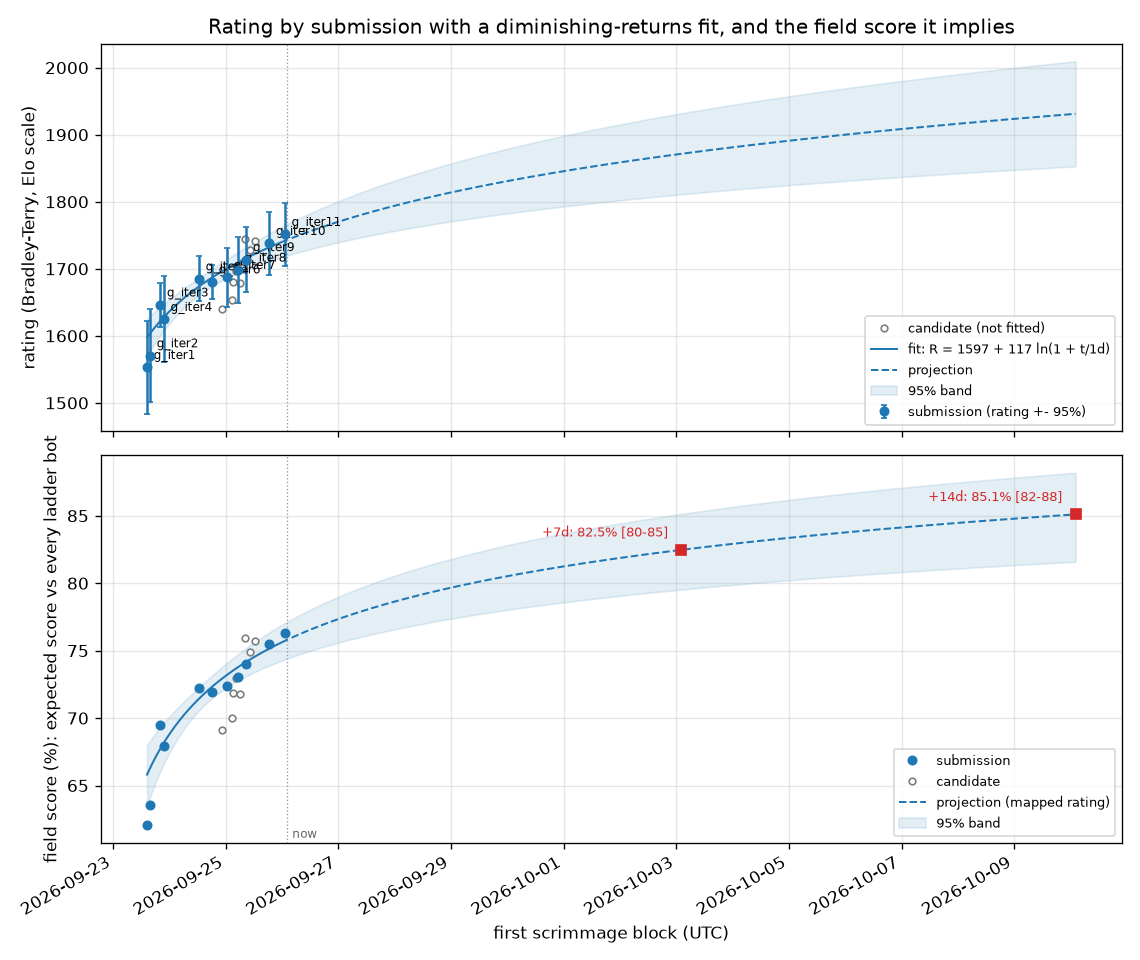
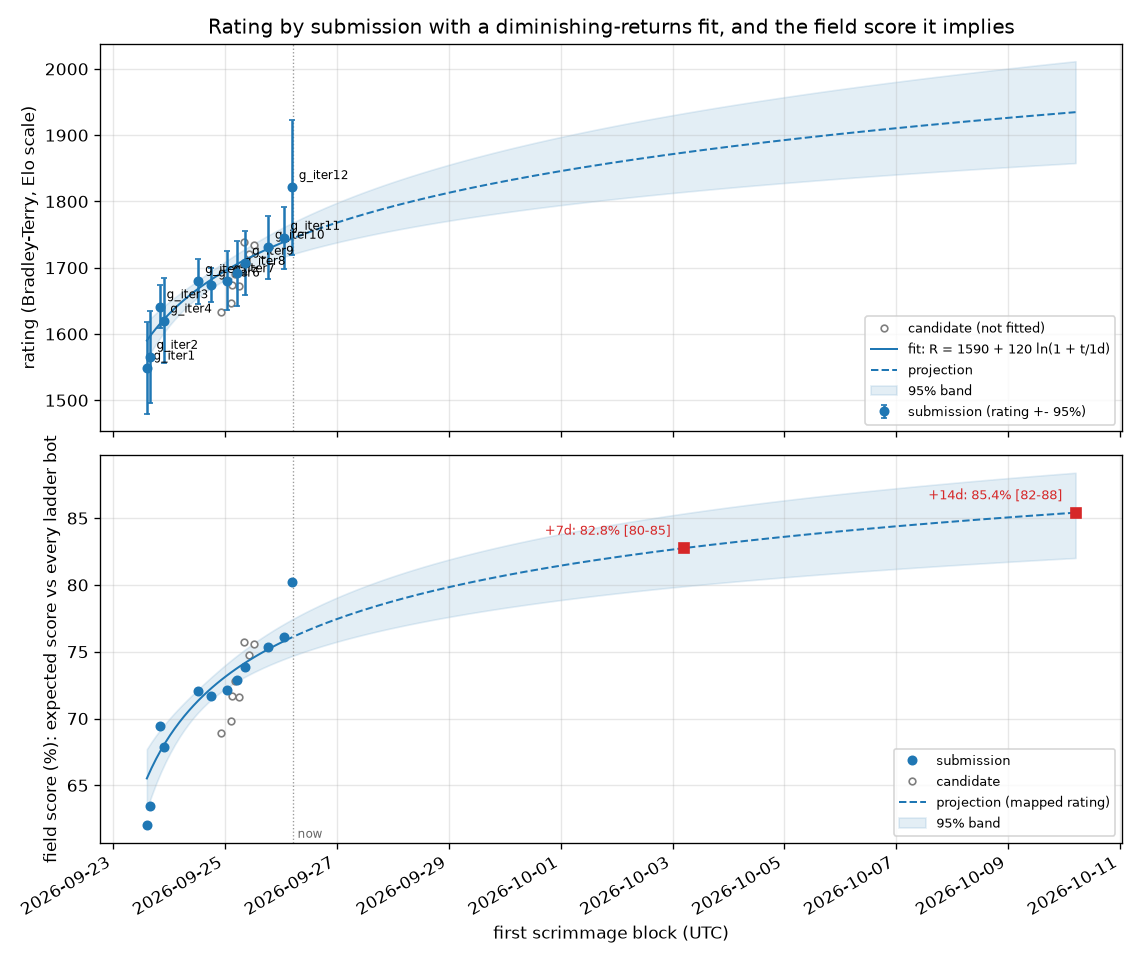
Submission block 20260926-044515-scrim-g_iter12 posted (g_iter12)
Claude-Session: https://claude.ai/code/session_015tNyF5ucwWW1mudpEQTT25

diff --git a/progress/ELO.md b/progress/ELO.md
@@ -1,116 +1,118 @@
 # Ladder
 
-5561 scrimmages (ours only), 5037 distinct (a repeated pairing with the same seed replays the same game and counts once), rated by a batch Bradley-Terry fit on the Elo scale (`tools/elolib.py`); each of our builds is its own player. 65 of 65 ladder bots met.
+5609 scrimmages (ours only), 5085 distinct (a repeated pairing with the same seed replays the same game and counts once), rated by a batch Bradley-Terry fit on the Elo scale (`tools/elolib.py`); each of our builds is its own player. 65 of 65 ladder bots met.
 
 Our builds (rating +- 95%; field score = expected score against every ladder bot, one game each):
 
 | build | rating | rank | games | record | field score |
 |---|---|---|---|---|---|
-| g_iter11 | 1751 +- 47 | 13 of 85 | 240 | 107-133 | 76.3% |
-| cand43b | 1745 +- 79 | 15 of 85 | 96 | 64-32 | 75.9% |
-| cand49b | 1742 +- 75 | 17 of 85 | 96 | 42-54 | 75.7% |
-| g_iter10 | 1738 +- 47 | 18 of 85 | 240 | 103-137 | 75.5% |
-| cand47d | 1728 +- 53 | 19 of 85 | 192 | 73-119 | 74.9% |
-| g_iter9 | 1714 +- 49 | 21 of 85 | 240 | 78-162 | 74.0% |
-| g_iter8 | 1698 +- 49 | 22 of 85 | 240 | 108-132 | 73.1% |
-| cand41b | 1697 +- 76 | 23 of 85 | 96 | 51-45 | 73.0% |
-| g_iter7 | 1687 +- 44 | 24 of 85 | 288 | 135-153 | 72.3% |
-| g_iter5 | 1685 +- 34 | 25 of 85 | 618 | 329-289 | 72.2% |
-| g_iter6 | 1681 +- 26 | 26 of 85 | 886 | 450-436 | 71.9% |
-| cand40c | 1680 +- 77 | 27 of 85 | 96 | 57-39 | 71.9% |
-| cand42c | 1679 +- 76 | 28 of 85 | 96 | 49-47 | 71.8% |
-| iter24 | 1653 +- 129 | 29 of 85 | 46 | 11-35 | 70.0% |
-| cand37 | 1653 +- 76 | 30 of 85 | 96 | 46-50 | 70.0% |
-| g_iter3 | 1646 +- 33 | 31 of 85 | 796 | 167-629 | 69.5% |
-| cand31 | 1640 +- 76 | 32 of 85 | 96 | 52-44 | 69.1% |
-| g_iter4 | 1625 +- 64 | 33 of 85 | 217 | 43-174 | 67.9% |
-| g_iter2 | 1570 +- 69 | 34 of 85 | 192 | 44-148 | 63.6% |
-| g_iter1 | 1553 +- 69 | 35 of 85 | 170 | 95-75 | 62.1% |
+| g_iter12 | 1821 +- 102 | 13 of 86 | 48 | 23-25 | 80.2% |
+| g_iter11 | 1745 +- 47 | 14 of 86 | 240 | 107-133 | 76.1% |
+| cand43b | 1738 +- 79 | 16 of 86 | 96 | 64-32 | 75.8% |
+| cand49b | 1735 +- 75 | 18 of 86 | 96 | 42-54 | 75.6% |
+| g_iter10 | 1731 +- 47 | 19 of 86 | 240 | 103-137 | 75.3% |
+| cand47d | 1721 +- 53 | 20 of 86 | 192 | 73-119 | 74.7% |
+| g_iter9 | 1707 +- 49 | 22 of 86 | 240 | 78-162 | 73.9% |
+| g_iter8 | 1692 +- 49 | 23 of 86 | 240 | 108-132 | 72.9% |
+| cand41b | 1690 +- 76 | 24 of 86 | 96 | 51-45 | 72.8% |
+| g_iter7 | 1681 +- 44 | 25 of 86 | 288 | 135-153 | 72.2% |
+| g_iter5 | 1679 +- 34 | 26 of 86 | 618 | 329-289 | 72.1% |
+| g_iter6 | 1674 +- 26 | 27 of 86 | 886 | 450-436 | 71.7% |
+| cand40c | 1674 +- 77 | 28 of 86 | 96 | 57-39 | 71.7% |
+| cand42c | 1673 +- 76 | 29 of 86 | 96 | 49-47 | 71.6% |
+| iter24 | 1648 +- 129 | 30 of 86 | 46 | 11-35 | 70.0% |
+| cand37 | 1647 +- 76 | 31 of 86 | 96 | 46-50 | 69.8% |
+| g_iter3 | 1641 +- 33 | 32 of 86 | 796 | 167-629 | 69.4% |
+| cand31 | 1634 +- 76 | 33 of 86 | 96 | 52-44 | 68.9% |
+| g_iter4 | 1620 +- 64 | 34 of 86 | 217 | 43-174 | 67.8% |
+| g_iter2 | 1565 +- 69 | 35 of 86 | 192 | 44-148 | 63.4% |
+| g_iter1 | 1549 +- 69 | 36 of 86 | 170 | 95-75 | 62.0% |
 
 | rank | player | rating | +- 95% | games | W-L |
 |---|---|---|---|---|---|
-| 1 | awesomelemonade.citricsky | 2249 | 200 | 103 | 101-2 |
-| 2 | uvafan.v14_final_bot | 2240 | 200 | 98 | 96-2 |
-| 3 | AngusRitossa.newbot | 2181 | 174 | 95 | 92-3 |
-| 4 | StoneT2000.FinalChowBotStable | 1996 | 212 | 21 | 19-2 |
-| 5 | rzhan11.quals_bot | 1990 | 115 | 86 | 77-9 |
-| 6 | battlecode20-team4.finalbota | 1987 | 65 | 226 | 195-31 |
-| 7 | IvanGeffner.finalbota | 1987 | 105 | 101 | 90-11 |
-| 8 | ronniesong0809.finalbota | 1980 | 105 | 97 | 86-11 |
-| 9 | winkelmantanner.tannerplayer | 1950 | 53 | 278 | 227-51 |
-| 10 | mvpatel2000.qual | 1923 | 52 | 265 | 210-55 |
-| 11 | EmaPajic.Qualifications | 1921 | 46 | 329 | 260-69 |
-| 12 | poortho.stable_seeding_bot | 1830 | 33 | 497 | 345-152 |
-| 13 | **us:g_iter11** | 1751 | 47 | 240 | 107-133 |
-| 14 | laurenschneider.pdx_team_one | 1748 | 31 | 512 | 300-212 |
-| 15 | **us:cand43b** | 1745 | 79 | 96 | 64-32 |
-| 16 | cormackikkert.whyPermutator | 1742 | 31 | 505 | 292-213 |
-| 17 | **us:cand49b** | 1742 | 75 | 96 | 42-54 |
-| 18 | **us:g_iter10** | 1738 | 47 | 240 | 103-137 |
-| 19 | **us:cand47d** | 1728 | 53 | 192 | 73-119 |
-| 20 | benzyx.seeding | 1718 | 30 | 508 | 277-231 |
-| 21 | **us:g_iter9** | 1714 | 49 | 240 | 78-162 |
-| 22 | **us:g_iter8** | 1698 | 49 | 240 | 108-132 |
-| 23 | **us:cand41b** | 1697 | 76 | 96 | 51-45 |
-| 24 | **us:g_iter7** | 1687 | 44 | 288 | 135-153 |
-| 25 | **us:g_iter5** | 1685 | 34 | 618 | 329-289 |
-| 26 | **us:g_iter6** | 1681 | 26 | 886 | 450-436 |
-| 27 | **us:cand40c** | 1680 | 77 | 96 | 57-39 |
-| 28 | **us:cand42c** | 1679 | 76 | 96 | 49-47 |
-| 29 | **us:iter24** | 1653 | 129 | 46 | 11-35 |
-| 30 | **us:cand37** | 1653 | 76 | 96 | 46-50 |
-| 31 | **us:g_iter3** | 1646 | 33 | 796 | 167-629 |
-| 32 | **us:cand31** | 1640 | 76 | 96 | 52-44 |
-| 33 | **us:g_iter4** | 1625 | 64 | 217 | 43-174 |
-| 34 | **us:g_iter2** | 1570 | 69 | 192 | 44-148 |
-| 35 | **us:g_iter1** | 1553 | 69 | 170 | 95-75 |
-| 36 | wpine215.stardustv2 | 1505 | 36 | 461 | 122-339 |
-| 37 | mhahn2003.nonrush | 1459 | 52 | 250 | 56-194 |
-| 38 | eggag32.BrutalPigeonBot | 1458 | 59 | 194 | 42-152 |
-| 39 | ARognes.FinalSubmission | 1418 | 147 | 31 | 6-25 |
-| 40 | cs454-w20-team3.playbot | 1410 | 117 | 50 | 10-40 |
-| 41 | TeamSerpentine.noodleBot | 1408 | 146 | 32 | 6-26 |
-| 42 | VinayaBhat.team10pdx | 1397 | 233 | 9 | 2-7 |
-| 43 | WilliamYue37.Player1 | 1389 | 142 | 40 | 6-34 |
-| 44 | jenlz.bustedJulianbot | 1384 | 274 | 8 | 1-7 |
-| 45 | yaonam.Robot_1 | 1381 | 155 | 33 | 5-28 |
-| 46 | Tim-gubski.AngryWaffleMaker | 1371 | 155 | 32 | 5-27 |
-| 47 | opheez.landscapers | 1368 | 271 | 9 | 1-8 |
-| 48 | ovimura.welovesoup | 1368 | 271 | 9 | 1-8 |
-| 49 | rsandzimier.SandSibs_seeding | 1368 | 271 | 9 | 1-8 |
-| 50 | thissop.alpha | 1368 | 271 | 9 | 1-8 |
-| 51 | cosimogonnelli.Team3player | 1346 | 276 | 7 | 1-6 |
-| 52 | LucianCov.ourRobot | 1332 | 387 | 3 | 0-3 |
-| 53 | MrHoseongLee.Neptune_v3 | 1332 | 387 | 3 | 0-3 |
-| 54 | Phrancium.Frankplayer1 | 1332 | 387 | 3 | 0-3 |
-| 55 | Pleket.Bot | 1332 | 387 | 3 | 0-3 |
-| 56 | Strequals.rw8 | 1332 | 387 | 3 | 0-3 |
-| 57 | Sukanya-Kothapally.team4player | 1332 | 387 | 3 | 0-3 |
-| 58 | TeamSerpentine.eendagsvliegjes | 1332 | 387 | 3 | 0-3 |
-| 59 | Tolsi.mybot | 1332 | 387 | 3 | 0-3 |
-| 60 | anthonybench.FunkBot | 1332 | 387 | 3 | 0-3 |
-| 61 | atliSig.buttletplayer | 1332 | 387 | 3 | 0-3 |
-| 62 | charboltron.team11newbot | 1332 | 387 | 3 | 0-3 |
-| 63 | djkeyes.addingComm | 1332 | 387 | 3 | 0-3 |
-| 64 | fewella.FirstPlayer | 1332 | 387 | 3 | 0-3 |
-| 65 | jmerle.camel_case_sprint | 1332 | 387 | 3 | 0-3 |
-| 66 | kylittle.qualsbot2 | 1332 | 387 | 3 | 0-3 |
-| 67 | lfchain.bigBudsBot | 1332 | 387 | 3 | 0-3 |
-| 68 | luisgonzalex.CodeMonkeys | 1332 | 387 | 3 | 0-3 |
-| 69 | mama4294.maloneplayer | 1332 | 387 | 3 | 0-3 |
-| 70 | max-titov.seeding | 1332 | 387 | 3 | 0-3 |
-| 71 | michaeltliu.beginnerplayer | 1332 | 387 | 3 | 0-3 |
-| 72 | monmouth-college-cs.MyFirstPlayer | 1332 | 387 | 3 | 0-3 |
-| 73 | ngkuru.qualifyingtournament | 1332 | 387 | 3 | 0-3 |
-| 74 | orionquick.aldebaranplayer | 1332 | 387 | 3 | 0-3 |
-| 75 | snpushpi.whatamidoing | 1332 | 387 | 3 | 0-3 |
-| 76 | stevetimberman.playerbbbbb | 1332 | 387 | 3 | 0-3 |
-| 77 | willBoyd8.bb8 | 1332 | 387 | 3 | 0-3 |
-| 78 | A9ine.potato | 1225 | 366 | 6 | 0-6 |
-| 79 | 9mAhmad.MahinBot | 1201 | 363 | 7 | 0-7 |
-| 80 | 9mAhmad.lostincoordinates | 1201 | 363 | 7 | 0-7 |
-| 81 | AllenWang314.bot1 | 1201 | 363 | 7 | 0-7 |
-| 82 | GabrielDWu.buildawall2 | 1201 | 363 | 7 | 0-7 |
-| 83 | J-J-Chen.player | 1201 | 363 | 7 | 0-7 |
-| 84 | KyleHassold.sprintbot | 1201 | 363 | 7 | 0-7 |
-| 85 | denver-blake.sprint | 1201 | 363 | 7 | 0-7 |
+| 1 | awesomelemonade.citricsky | 2244 | 200 | 103 | 101-2 |
+| 2 | uvafan.v14_final_bot | 2235 | 200 | 98 | 96-2 |
+| 3 | AngusRitossa.newbot | 2176 | 174 | 95 | 92-3 |
+| 4 | ronniesong0809.finalbota | 2002 | 105 | 103 | 92-11 |
+| 5 | StoneT2000.FinalChowBotStable | 1990 | 211 | 21 | 19-2 |
+| 6 | rzhan11.quals_bot | 1985 | 115 | 86 | 77-9 |
+| 7 | IvanGeffner.finalbota | 1982 | 105 | 101 | 90-11 |
+| 8 | battlecode20-team4.finalbota | 1981 | 65 | 226 | 195-31 |
+| 9 | winkelmantanner.tannerplayer | 1943 | 52 | 284 | 231-53 |
+| 10 | EmaPajic.Qualifications | 1915 | 46 | 335 | 264-71 |
+| 11 | mvpatel2000.qual | 1914 | 50 | 271 | 213-58 |
+| 12 | poortho.stable_seeding_bot | 1826 | 33 | 503 | 349-154 |
+| 13 | **us:g_iter12** | 1821 | 102 | 48 | 23-25 |
+| 14 | **us:g_iter11** | 1745 | 47 | 240 | 107-133 |
+| 15 | laurenschneider.pdx_team_one | 1741 | 30 | 518 | 302-216 |
+| 16 | **us:cand43b** | 1738 | 79 | 96 | 64-32 |
+| 17 | cormackikkert.whyPermutator | 1736 | 31 | 511 | 294-217 |
+| 18 | **us:cand49b** | 1735 | 75 | 96 | 42-54 |
+| 19 | **us:g_iter10** | 1731 | 47 | 240 | 103-137 |
+| 20 | **us:cand47d** | 1721 | 53 | 192 | 73-119 |
+| 21 | benzyx.seeding | 1709 | 30 | 514 | 277-237 |
+| 22 | **us:g_iter9** | 1707 | 49 | 240 | 78-162 |
+| 23 | **us:g_iter8** | 1692 | 49 | 240 | 108-132 |
+| 24 | **us:cand41b** | 1690 | 76 | 96 | 51-45 |
+| 25 | **us:g_iter7** | 1681 | 44 | 288 | 135-153 |
+| 26 | **us:g_iter5** | 1679 | 34 | 618 | 329-289 |
+| 27 | **us:g_iter6** | 1674 | 26 | 886 | 450-436 |
+| 28 | **us:cand40c** | 1674 | 77 | 96 | 57-39 |
+| 29 | **us:cand42c** | 1673 | 76 | 96 | 49-47 |
+| 30 | **us:iter24** | 1648 | 129 | 46 | 11-35 |
+| 31 | **us:cand37** | 1647 | 76 | 96 | 46-50 |
+| 32 | **us:g_iter3** | 1641 | 33 | 796 | 167-629 |
+| 33 | **us:cand31** | 1634 | 76 | 96 | 52-44 |
+| 34 | **us:g_iter4** | 1620 | 64 | 217 | 43-174 |
+| 35 | **us:g_iter2** | 1565 | 69 | 192 | 44-148 |
+| 36 | **us:g_iter1** | 1549 | 69 | 170 | 95-75 |
+| 37 | wpine215.stardustv2 | 1499 | 36 | 461 | 122-339 |
+| 38 | mhahn2003.nonrush | 1453 | 52 | 250 | 56-194 |
+| 39 | eggag32.BrutalPigeonBot | 1452 | 59 | 194 | 42-152 |
+| 40 | ARognes.FinalSubmission | 1413 | 147 | 31 | 6-25 |
+| 41 | cs454-w20-team3.playbot | 1404 | 117 | 50 | 10-40 |
+| 42 | TeamSerpentine.noodleBot | 1403 | 146 | 32 | 6-26 |
+| 43 | VinayaBhat.team10pdx | 1393 | 233 | 9 | 2-7 |
+| 44 | WilliamYue37.Player1 | 1383 | 142 | 40 | 6-34 |
+| 45 | jenlz.bustedJulianbot | 1380 | 274 | 8 | 1-7 |
+| 46 | yaonam.Robot_1 | 1376 | 155 | 33 | 5-28 |
+| 47 | Tim-gubski.AngryWaffleMaker | 1365 | 155 | 32 | 5-27 |
+| 48 | opheez.landscapers | 1364 | 271 | 9 | 1-8 |
+| 49 | ovimura.welovesoup | 1364 | 271 | 9 | 1-8 |
+| 50 | rsandzimier.SandSibs_seeding | 1364 | 271 | 9 | 1-8 |
+| 51 | thissop.alpha | 1364 | 271 | 9 | 1-8 |
+| 52 | cosimogonnelli.Team3player | 1343 | 275 | 7 | 1-6 |
+| 53 | LucianCov.ourRobot | 1329 | 387 | 3 | 0-3 |
+| 54 | MrHoseongLee.Neptune_v3 | 1329 | 387 | 3 | 0-3 |
+| 55 | Phrancium.Frankplayer1 | 1329 | 387 | 3 | 0-3 |
+| 56 | Pleket.Bot | 1329 | 387 | 3 | 0-3 |
+| 57 | Strequals.rw8 | 1329 | 387 | 3 | 0-3 |
+| 58 | Sukanya-Kothapally.team4player | 1329 | 387 | 3 | 0-3 |
+| 59 | TeamSerpentine.eendagsvliegjes | 1329 | 387 | 3 | 0-3 |
+| 60 | Tolsi.mybot | 1329 | 387 | 3 | 0-3 |
+| 61 | anthonybench.FunkBot | 1329 | 387 | 3 | 0-3 |
+| 62 | atliSig.buttletplayer | 1329 | 387 | 3 | 0-3 |
+| 63 | charboltron.team11newbot | 1329 | 387 | 3 | 0-3 |
+| 64 | djkeyes.addingComm | 1329 | 387 | 3 | 0-3 |
+| 65 | fewella.FirstPlayer | 1329 | 387 | 3 | 0-3 |
+| 66 | jmerle.camel_case_sprint | 1329 | 387 | 3 | 0-3 |
+| 67 | kylittle.qualsbot2 | 1329 | 387 | 3 | 0-3 |
+| 68 | lfchain.bigBudsBot | 1329 | 387 | 3 | 0-3 |
+| 69 | luisgonzalex.CodeMonkeys | 1329 | 387 | 3 | 0-3 |
+| 70 | mama4294.maloneplayer | 1329 | 387 | 3 | 0-3 |
+| 71 | max-titov.seeding | 1329 | 387 | 3 | 0-3 |
+| 72 | michaeltliu.beginnerplayer | 1329 | 387 | 3 | 0-3 |
+| 73 | monmouth-college-cs.MyFirstPlayer | 1329 | 387 | 3 | 0-3 |
+| 74 | ngkuru.qualifyingtournament | 1329 | 387 | 3 | 0-3 |
+| 75 | orionquick.aldebaranplayer | 1329 | 387 | 3 | 0-3 |
+| 76 | snpushpi.whatamidoing | 1329 | 387 | 3 | 0-3 |
+| 77 | stevetimberman.playerbbbbb | 1329 | 387 | 3 | 0-3 |
+| 78 | willBoyd8.bb8 | 1329 | 387 | 3 | 0-3 |
+| 79 | A9ine.potato | 1222 | 366 | 6 | 0-6 |
+| 80 | 9mAhmad.MahinBot | 1197 | 363 | 7 | 0-7 |
+| 81 | 9mAhmad.lostincoordinates | 1197 | 363 | 7 | 0-7 |
+| 82 | AllenWang314.bot1 | 1197 | 363 | 7 | 0-7 |
+| 83 | GabrielDWu.buildawall2 | 1197 | 363 | 7 | 0-7 |
+| 84 | J-J-Chen.player | 1197 | 363 | 7 | 0-7 |
+| 85 | KyleHassold.sprintbot | 1197 | 363 | 7 | 0-7 |
+| 86 | denver-blake.sprint | 1197 | 363 | 7 | 0-7 |

diff --git a/progress/ONSET.md b/progress/ONSET.md
@@ -1,6 +1,6 @@
 # Which metric starts predicting the result first
 
-44 games, 23 wins. Noise floor about 0.30; a correlation inside that band is not evidence.
+37 games, 21 wins. Noise floor about 0.33; a correlation inside that band is not evidence.
 
 Every metric is oriented so **higher is better for us**, so a positive correlation always means
 "this being better goes with winning". `~avg` is the running mean over all rounds so far rather than
@@ -12,46 +12,46 @@ See `progress/METRICS.md` for how each quantity is computed.
 
 | onset | anti | metric | peak corr | r100 | r200 | r300 | r400 | r600 | r900 |
 |---|---|---|---|---|---|---|---|---|---|
-| r100 | - | mines (us-them) | +0.36 | +0.33 | +0.36 | +0.34 | +0.34 | +0.30 | +0.25 |
-| r100 | - | mines (us-them) ~avg | +0.43 | +0.32 | +0.37 | +0.36 | +0.39 | +0.42 | +0.35 |
-| r150 | - | worth (us-them) | +0.53 | +0.28 | +0.35 | +0.38 | +0.38 | +0.50 | +0.51 |
-| r150 | - | worth (us-them) ~avg | +0.55 | +0.23 | +0.35 | +0.38 | +0.42 | +0.50 | +0.54 |
-| r300 | - | pickups (us-them) | +0.47 | +0.26 | +0.22 | +0.32 | +0.29 | +0.34 | +0.42 |
-| r300 | - | pickups (us-them) ~avg | +0.44 | +0.26 | +0.29 | +0.30 | +0.32 | +0.30 | +0.38 |
-| r300 | - | vaporators (us-them) | +0.47 | +0.04 | +0.12 | +0.32 | +0.32 | +0.47 | +0.37 |
-| r350 | - | vaporators (us-them) ~avg | +0.48 | +0.04 | +0.09 | +0.29 | +0.33 | +0.46 | +0.46 |
-| r500 | - | landscapers (us-them) | +0.72 | +0.08 | +0.03 | +0.03 | +0.09 | +0.44 | +0.72 |
-| r500 | - | robots (us-them) | +0.64 | +0.08 | +0.14 | +0.22 | +0.23 | +0.53 | +0.61 |
-| r500 | - | robots (us-them) ~avg | +0.61 | +0.12 | +0.10 | +0.11 | +0.20 | +0.42 | +0.58 |
-| r500 | - | spawned (us-them) | +0.55 | +0.08 | +0.13 | +0.23 | +0.21 | +0.50 | +0.55 |
-| r500 | - | spawned (us-them) ~avg | +0.56 | +0.12 | +0.09 | +0.11 | +0.21 | +0.41 | +0.53 |
-| r550 | - | netguns (us-them) | +0.47 | . | +0.20 | +0.28 | +0.15 | +0.31 | +0.37 |
-| r550 | - | units (us-them) | +0.60 | +0.11 | +0.03 | +0.05 | +0.07 | +0.38 | +0.58 |
-| r600 | - | digs (us-them) | +0.68 | +0.18 | +0.12 | +0.01 | +0.07 | +0.33 | +0.56 |
-| r650 | - | dirtDeps (us-them) | +0.67 | +0.20 | +0.11 | -0.04 | +0.02 | +0.27 | +0.53 |
-| r650 | - | landscapers (us-them) ~avg | +0.71 | +0.07 | +0.03 | -0.07 | -0.00 | +0.26 | +0.61 |
-| r650 | - | netguns (us-them) ~avg | +0.40 | . | +0.20 | +0.26 | +0.24 | +0.28 | +0.35 |
-| r700 | - | died (us-them) [inverted] | +0.39 | . | +0.09 | +0.06 | +0.12 | +0.25 | +0.39 |
-| r700 | - | miners (us-them) | +0.46 | -0.02 | -0.13 | -0.09 | -0.01 | +0.18 | +0.45 |
-| r700 | - | units (us-them) ~avg | +0.58 | +0.12 | +0.06 | -0.04 | +0.01 | +0.22 | +0.48 |
-| r800 | - | digs (us-them) ~avg | +0.60 | +0.16 | +0.09 | -0.02 | +0.02 | +0.16 | +0.42 |
-| r850 | - | dirtDeps (us-them) ~avg | +0.57 | +0.18 | +0.08 | -0.08 | -0.04 | +0.10 | +0.37 |
-| r900 | r100 | moves (us-them) | +0.43 | -0.30 | -0.30 | -0.14 | -0.01 | +0.11 | +0.32 |
-| r950 | - | died (us-them) [inverted] ~avg | +0.33 | . | +0.09 | -0.01 | +0.04 | +0.12 | +0.29 |
-| r1050 | - | miners (us-them) ~avg | +0.34 | +0.05 | -0.03 | -0.11 | -0.09 | +0.03 | +0.20 |
-| r1100 | - | drones (us-them) | +0.34 | +0.25 | +0.13 | +0.22 | +0.06 | +0.13 | +0.27 |
-| r1100 | - | drones (us-them) ~avg | +0.33 | +0.26 | +0.22 | +0.24 | +0.17 | +0.13 | +0.24 |
-| r1100 | r100 | moves (us-them) ~avg | +0.35 | -0.32 | -0.30 | -0.21 | -0.13 | +0.01 | +0.19 |
-| - | r650 | aba (us-them) [inverted] | -0.42 | +0.10 | +0.14 | -0.05 | -0.13 | -0.26 | -0.37 |
-| - | r750 | aba (us-them) [inverted] ~avg | -0.40 | +0.10 | +0.13 | +0.00 | -0.09 | -0.24 | -0.34 |
-| - | - | cov (us-them) | -0.21 | -0.20 | -0.11 | -0.02 | -0.01 | +0.01 | +0.14 |
-| - | - | cov (us-them) ~avg | -0.18 | -0.14 | -0.16 | -0.07 | -0.05 | -0.11 | +0.02 |
+| r50 | - | miners (us-them) | +0.46 | +0.26 | +0.12 | +0.26 | +0.28 | +0.34 | +0.41 |
+| r50 | - | miners (us-them) ~avg | +0.42 | +0.32 | +0.29 | +0.32 | +0.33 | +0.29 | +0.37 |
+| r50 | - | robots (us-them) | +0.66 | +0.26 | +0.29 | +0.55 | +0.63 | +0.64 | +0.62 |
+| r50 | - | robots (us-them) ~avg | +0.68 | +0.33 | +0.29 | +0.44 | +0.56 | +0.64 | +0.67 |
+| r50 | - | spawned (us-them) | +0.74 | +0.26 | +0.32 | +0.56 | +0.69 | +0.74 | +0.70 |
+| r50 | - | spawned (us-them) ~avg | +0.76 | +0.33 | +0.30 | +0.43 | +0.57 | +0.72 | +0.76 |
+| r50 | - | units (us-them) | +0.64 | +0.34 | +0.30 | +0.47 | +0.52 | +0.57 | +0.58 |
+| r50 | - | units (us-them) ~avg | +0.64 | +0.38 | +0.33 | +0.43 | +0.50 | +0.57 | +0.64 |
+| r100 | - | hqBuried (us-them) [inverted] | +0.30 | +0.30 | +0.18 | -0.22 | -0.18 | -0.13 | -0.17 |
+| r100 | - | mines (us-them) | +0.68 | +0.34 | +0.47 | +0.61 | +0.68 | +0.63 | +0.63 |
+| r100 | - | mines (us-them) ~avg | +0.69 | +0.34 | +0.39 | +0.54 | +0.63 | +0.68 | +0.68 |
+| r100 | - | worth (us-them) ~avg | +0.67 | +0.31 | +0.36 | +0.55 | +0.63 | +0.66 | +0.66 |
+| r200 | - | landscapers (us-them) | +0.68 | +0.29 | +0.34 | +0.48 | +0.53 | +0.61 | +0.66 |
+| r200 | - | soup (us-them) | +0.41 | +0.11 | +0.31 | +0.33 | +0.24 | +0.22 | +0.19 |
+| r200 | - | soup (us-them) ~avg | +0.48 | +0.06 | +0.32 | +0.45 | +0.45 | +0.46 | +0.38 |
+| r200 | - | worth (us-them) | +0.67 | +0.29 | +0.42 | +0.60 | +0.64 | +0.65 | +0.61 |
+| r250 | - | landscapers (us-them) ~avg | +0.75 | +0.35 | +0.28 | +0.42 | +0.52 | +0.69 | +0.75 |
+| r300 | - | digs (us-them) | +0.70 | +0.27 | +0.13 | +0.31 | +0.41 | +0.54 | +0.67 |
+| r350 | - | cov (us-them) | +0.34 | +0.17 | +0.26 | +0.27 | +0.31 | +0.33 | +0.33 |
+| r350 | - | digs (us-them) ~avg | +0.69 | +0.32 | +0.16 | +0.25 | +0.34 | +0.44 | +0.61 |
+| r350 | - | vaporators (us-them) | +0.52 | -0.15 | +0.16 | +0.28 | +0.33 | +0.50 | +0.50 |
+| r400 | - | dirtDeps (us-them) | +0.67 | +0.12 | +0.10 | +0.23 | +0.33 | +0.45 | +0.63 |
+| r500 | - | vaporators (us-them) ~avg | +0.54 | -0.15 | +0.07 | +0.19 | +0.27 | +0.42 | +0.52 |
+| r550 | - | dirtDeps (us-them) ~avg | +0.65 | +0.11 | +0.11 | +0.17 | +0.26 | +0.35 | +0.54 |
+| r650 | - | cov (us-them) ~avg | +0.33 | +0.12 | +0.26 | +0.27 | +0.30 | +0.29 | +0.33 |
+| r700 | - | drones (us-them) | +0.42 | -0.07 | -0.18 | +0.09 | +0.05 | +0.22 | +0.32 |
+| r700 | - | moves (us-them) | +0.43 | +0.20 | +0.16 | +0.12 | +0.17 | +0.24 | +0.37 |
+| r850 | - | moves (us-them) ~avg | +0.38 | +0.15 | +0.18 | +0.17 | +0.18 | +0.22 | +0.33 |
+| r1050 | - | drones (us-them) ~avg | +0.34 | -0.13 | -0.18 | -0.03 | +0.01 | +0.09 | +0.28 |
+| - | - | aba (us-them) [inverted] | -0.22 | +0.14 | -0.03 | -0.04 | -0.11 | -0.14 | -0.22 |
+| - | - | aba (us-them) [inverted] ~avg | -0.23 | +0.18 | +0.06 | +0.00 | -0.08 | -0.16 | -0.22 |
+| - | r950 | died (us-them) [inverted] | -0.34 | . | -0.05 | +0.16 | +0.15 | -0.10 | -0.23 |
+| - | - | died (us-them) [inverted] ~avg | -0.27 | . | +0.05 | +0.20 | +0.21 | -0.01 | -0.14 |
 | - | - | drowned (us-them) [inverted] | . | . | . | . | . | . | . |
 | - | - | drowned (us-them) [inverted] ~avg | . | . | . | . | . | . | . |
-| - | - | hqBuried (us-them) [inverted] | +0.24 | +0.24 | +0.18 | . | . | . | . |
-| - | - | hqBuried (us-them) [inverted] ~avg | +0.25 | +0.24 | +0.22 | +0.15 | +0.15 | +0.15 | +0.15 |
-| - | - | soup (us-them) | +0.33 | +0.10 | +0.22 | -0.01 | +0.09 | -0.20 | -0.25 |
-| - | - | soup (us-them) ~avg | +0.30 | +0.05 | +0.30 | +0.24 | +0.22 | +0.04 | -0.09 |
+| - | - | hqBuried (us-them) [inverted] ~avg | +0.29 | +0.29 | +0.25 | -0.14 | -0.17 | -0.11 | -0.13 |
+| - | - | netguns (us-them) | +0.29 | . | -0.26 | -0.17 | -0.10 | +0.10 | +0.18 |
+| - | - | netguns (us-them) ~avg | -0.26 | . | -0.26 | -0.20 | -0.17 | -0.08 | +0.04 |
+| - | - | pickups (us-them) | +0.23 | -0.03 | -0.07 | +0.19 | +0.22 | +0.20 | +0.13 |
+| - | - | pickups (us-them) ~avg | +0.23 | -0.03 | +0.02 | +0.17 | +0.21 | +0.20 | +0.21 |
 
 **Reading it.** Earliest onset is the first place to look: temporal precedence is the one causal hint a
 correlation can honestly give. Late-onset metrics are usually the scoreboard rather than the cause -- by then

diff --git a/BENCHMARK.md b/BENCHMARK.md
@@ -62,7 +62,7 @@ build with at least 200 recorded games: a candidate's short ladder arm never re-
 | `EmaPajic.Mark3` | EmaPajic_Battlecode-2020 (c060a22) | - | - | untested |  |
 | `EmaPajic.Mark4` | EmaPajic_Battlecode-2020 (c060a22) | - | - | untested |  |
 | `EmaPajic.Mark5` | EmaPajic_Battlecode-2020 (c060a22) | - | - | untested |  |
-| `EmaPajic.Qualifications` | EmaPajic_Battlecode-2020 (c060a22) | 20 | 30 | target | 20 0 21 0 50 0 17 38 8 25 10 17 20 33 33 30 20 |
+| `EmaPajic.Qualifications` | EmaPajic_Battlecode-2020 (c060a22) | 20 | 30 | target | 20 0 21 0 50 0 17 38 8 25 10 17 20 33 33 30 20 33 |
 | `EmaPajic.SeedingBot` | EmaPajic_Battlecode-2020 (c060a22) | - | - | untested |  |
 | `GabrielDWu.basicbot` | GabrielDWu_blezers-battlecode2020 (c0283f8) | - | - | untested |  |
 | `GabrielDWu.blezerbot` | GabrielDWu_blezers-battlecode2020 (c0283f8) | - | - | untested |  |
@@ -171,11 +171,11 @@ build with at least 200 recorded games: a candidate's short ladder arm never re-
 | `benzyx.espada` | benzyx_bc20-waterloo (05df2e7) | - | - | untested |  |
 | `benzyx.firstplayer` | benzyx_bc20-waterloo (05df2e7) | - | - | untested |  |
 | `benzyx.kurobot` | benzyx_bc20-waterloo (05df2e7) | - | - | untested |  |
-| `benzyx.seeding` | benzyx_bc20-waterloo (05df2e7) | 63 | 30 | peer | 25 17 50 40 25 45 41 33 36 33 33 58 50 25 58 53 50 50 63 63 |
+| `benzyx.seeding` | benzyx_bc20-waterloo (05df2e7) | 63 | 30 | peer | 25 17 50 40 25 45 41 33 36 33 33 58 50 25 58 53 50 50 63 63 100 |
 | `benzyx.tortuga` | benzyx_bc20-waterloo (05df2e7) | - | - | untested |  |
 | `charboltron.master_player` | charboltron_pdx_battlecode_2020_team_11 (f78f1e3) | - | - | untested |  |
 | `charboltron.team11newbot` | charboltron_pdx_battlecode_2020_team_11 (f78f1e3) | 100 | 2 | peer(>90 once) | 100 100 |
-| `cormackikkert.whyPermutator` | cormackikkert_battlecode2020 (4d230c4) | 50 | 30 | peer | 25 17 38 40 25 42 45 25 28 25 42 33 47 58 42 50 38 75 60 50 |
+| `cormackikkert.whyPermutator` | cormackikkert_battlecode2020 (4d230c4) | 50 | 30 | peer | 25 17 38 40 25 42 45 25 28 25 42 33 47 58 42 50 38 75 60 50 67 |
 | `cormackikkert.whyPermutatorOld` | cormackikkert_battlecode2020 (4d230c4) | - | - | untested |  |
 | `cosimogonnelli.Team3player` | cosimogonnelli_CS454-554-SE (d7dc657) | 100 | 2 | peer(>90 once) | 80 100 |
 | `cs454-w20-team3.oldbot` | cs454-w20-team3_team3-bot (502c334) | - | - | untested |  |
@@ -203,7 +203,7 @@ build with at least 200 recorded games: a candidate's short ladder arm never re-
 | `kylittle.deliriumv1` | kylittle_DeliriumBattlecode (17a94dd) | - | - | untested |  |
 | `kylittle.qualsbot` | kylittle_DeliriumBattlecode (17a94dd) | - | - | untested |  |
 | `kylittle.qualsbot2` | kylittle_DeliriumBattlecode (17a94dd) | 100 | 2 | peer(>90 once) | 100 100 |
-| `laurenschneider.pdx_team_one` | laurenschneider_battlecode20-PDXTeamOne (2965376) | 47 | 30 | target | 0 50 39 14 0 47 38 0 50 50 50 42 47 42 50 47 50 42 50 47 |
+| `laurenschneider.pdx_team_one` | laurenschneider_battlecode20-PDXTeamOne (2965376) | 47 | 30 | target | 0 50 39 14 0 47 38 0 50 50 50 42 47 42 50 47 50 42 50 47 67 |
 | `lfchain.bigBudsBot` | lfchain_Battlecode2020 (b026153) | 100 | 2 | peer(>90 once) | 100 100 |
 | `lfchain.fBot` | lfchain_Battlecode2020 (b026153) | - | - | untested |  |
 | `lfchain.jBot` | lfchain_Battlecode2020 (b026153) | - | - | untested |  |
@@ -246,7 +246,7 @@ build with at least 200 recorded games: a candidate's short ladder arm never re-
 | `mvpatel2000.oldhades` | mvpatel2000_Battlecode2020 (554943e) | - | - | untested |  |
 | `mvpatel2000.poseidon` | mvpatel2000_Battlecode2020 (554943e) | - | - | untested |  |
 | `mvpatel2000.quail` | mvpatel2000_Battlecode2020 (554943e) | - | - | untested |  |
-| `mvpatel2000.qual` | mvpatel2000_Battlecode2020 (554943e) | 30 | 30 | target | 0 8 24 13 67 12 0 12 20 46 8 23 30 |
+| `mvpatel2000.qual` | mvpatel2000_Battlecode2020 (554943e) | 30 | 30 | target | 0 8 24 13 67 12 0 12 20 46 8 23 30 50 |
 | `mvpatel2000.qualAttacc` | mvpatel2000_Battlecode2020 (554943e) | - | - | untested |  |
 | `mvpatel2000.qualNoAtacc` | mvpatel2000_Battlecode2020 (554943e) | - | - | untested |  |
 | `mvpatel2000.seeding` | mvpatel2000_Battlecode2020 (554943e) | - | - | untested |  |
@@ -280,10 +280,10 @@ build with at least 200 recorded games: a candidate's short ladder arm never re-
 | `poortho.rush` | poortho_battlecode-2020 (ebbd61e) | - | - | untested |  |
 | `poortho.rush_bot` | poortho_battlecode-2020 (ebbd61e) | - | - | untested |  |
 | `poortho.stable_miner1` | poortho_battlecode-2020 (ebbd61e) | - | - | untested |  |
-| `poortho.stable_seeding_bot` | poortho_battlecode-2020 (ebbd61e) | 30 | 30 | target | 0 17 27 31 0 30 31 50 39 33 25 33 33 17 42 37 33 17 27 30 |
+| `poortho.stable_seeding_bot` | poortho_battlecode-2020 (ebbd61e) | 30 | 30 | target | 0 17 27 31 0 30 31 50 39 33 25 33 33 17 42 37 33 17 27 30 33 |
 | `ps789.dennisTestPlayer` | ps789_AZBattlecode (f1d54ab) | - | - | untested |  |
 | `ps789.phillipTestPlayer` | ps789_AZBattlecode (f1d54ab) | - | - | untested |  |
-| `ronniesong0809.finalbota` | ronniesong0809_battlecode20-RADS (1cee065) | 0 | 11 | locked | 0 18 15 7 0 0 |
+| `ronniesong0809.finalbota` | ronniesong0809_battlecode20-RADS (1cee065) | 0 | 11 | locked | 0 18 15 7 0 0 0 |
 | `ronniesong0809.team4enemy` | ronniesong0809_battlecode20-RADS (1cee065) | - | - | untested |  |
 | `ronniesong0809.team4player` | ronniesong0809_battlecode20-RADS (1cee065) | - | - | untested |  |
 | `rsandzimier.PlayerAlpha` | rsandzimier_battlecode2020 (8d856c3) | - | - | untested |  |
@@ -326,7 +326,7 @@ build with at least 200 recorded games: a candidate's short ladder arm never re-
 | `willBoyd8.droideka` | willBoyd8_BattleDroid (4b1d4ad) | - | - | untested |  |
 | `willBoyd8.empire` | willBoyd8_BattleDroid (4b1d4ad) | - | - | untested |  |
 | `willBoyd8.mouse` | willBoyd8_BattleDroid (4b1d4ad) | - | - | untested |  |
-| `winkelmantanner.tannerplayer` | winkelmantanner_battlecode2020_the-levee-builders (7f49f11) | 27 | 30 | target | 0 25 15 23 0 36 12 8 23 17 25 17 27 |
+| `winkelmantanner.tannerplayer` | winkelmantanner_battlecode2020_the-levee-builders (7f49f11) | 27 | 30 | target | 0 25 15 23 0 36 12 8 23 17 25 17 27 33 |
 | `wpine215.stardustv1` | wpine215_battlecode (d570d57) | - | - | untested |  |
 | `wpine215.stardustv2` | wpine215_battlecode (d570d57) | 90 | 30 | peer | 0 30 50 65 100 70 77 58 78 83 67 75 87 100 83 67 100 73 90 |
 | `yaonam.Robot_1` | yaonam_battlecode2020 (bb363f5) | 83 | 12 | peer | 62 100 83 100 |
